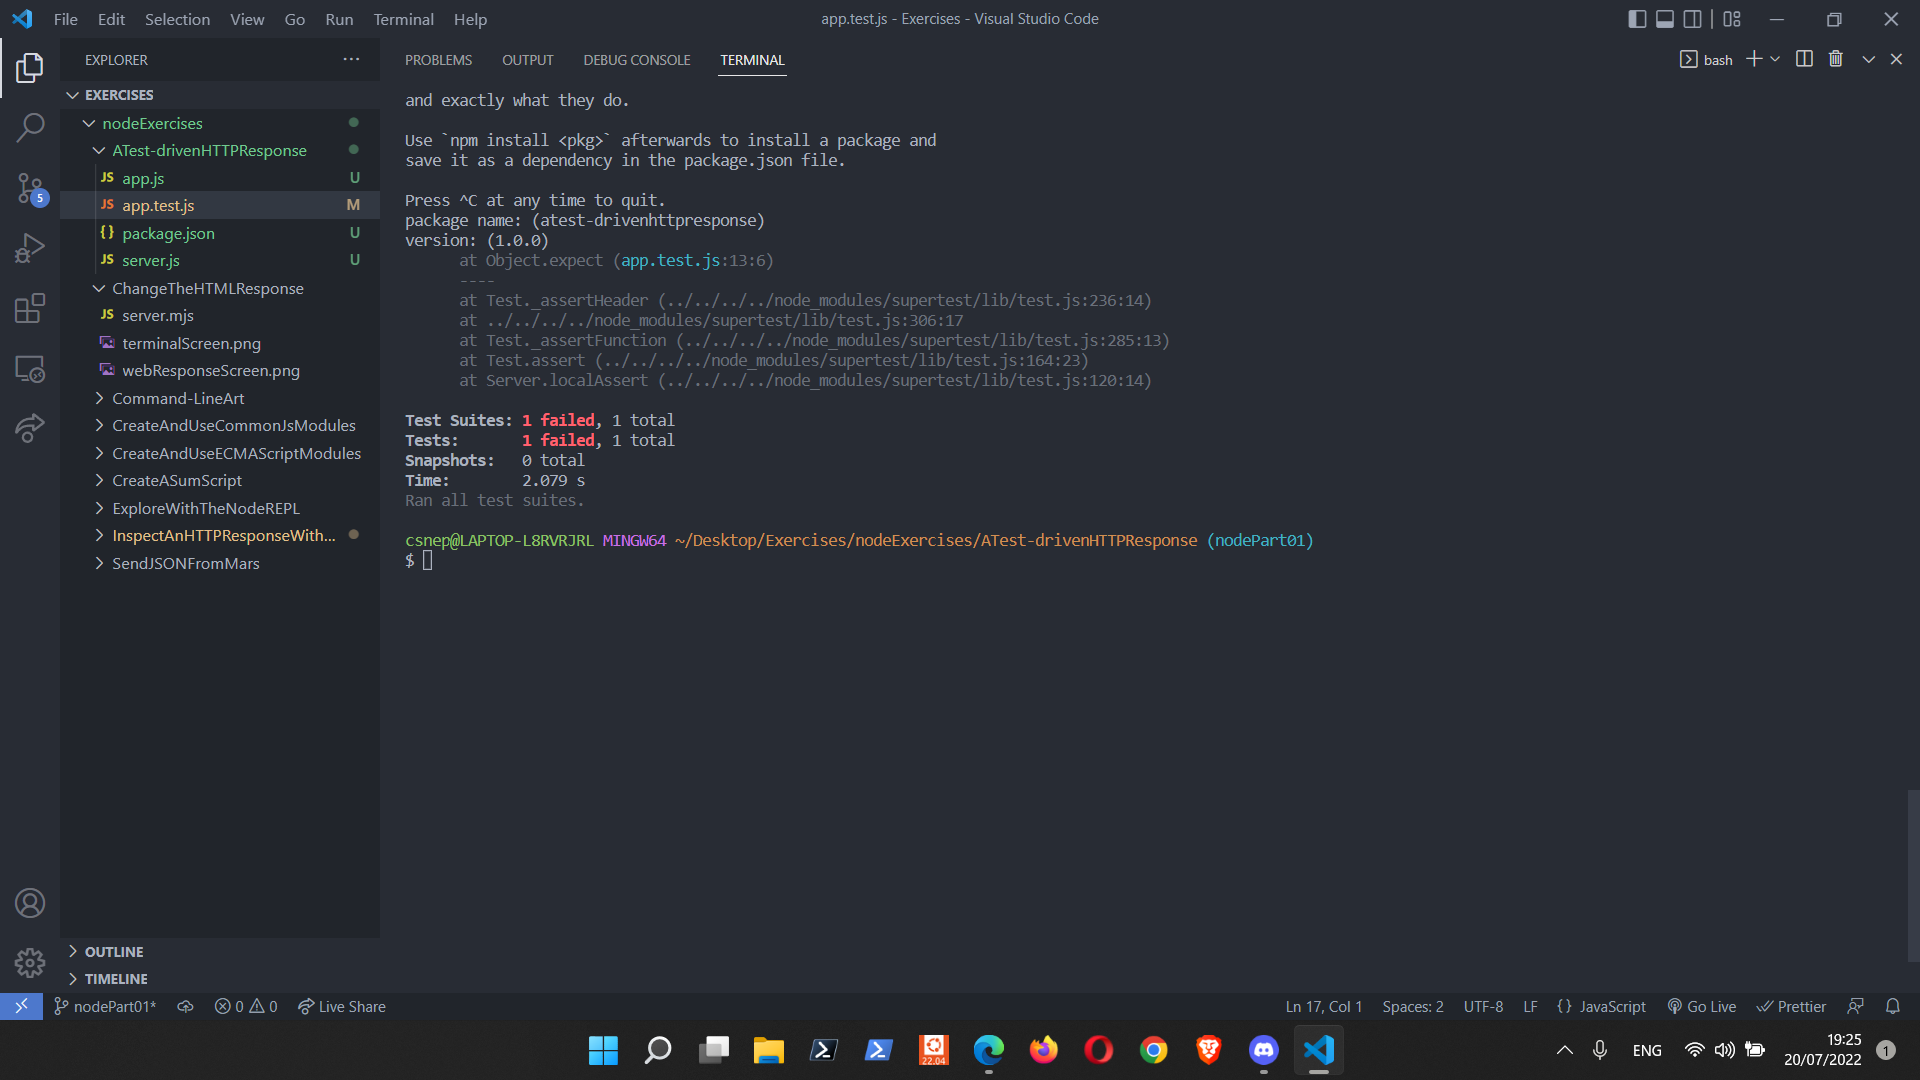
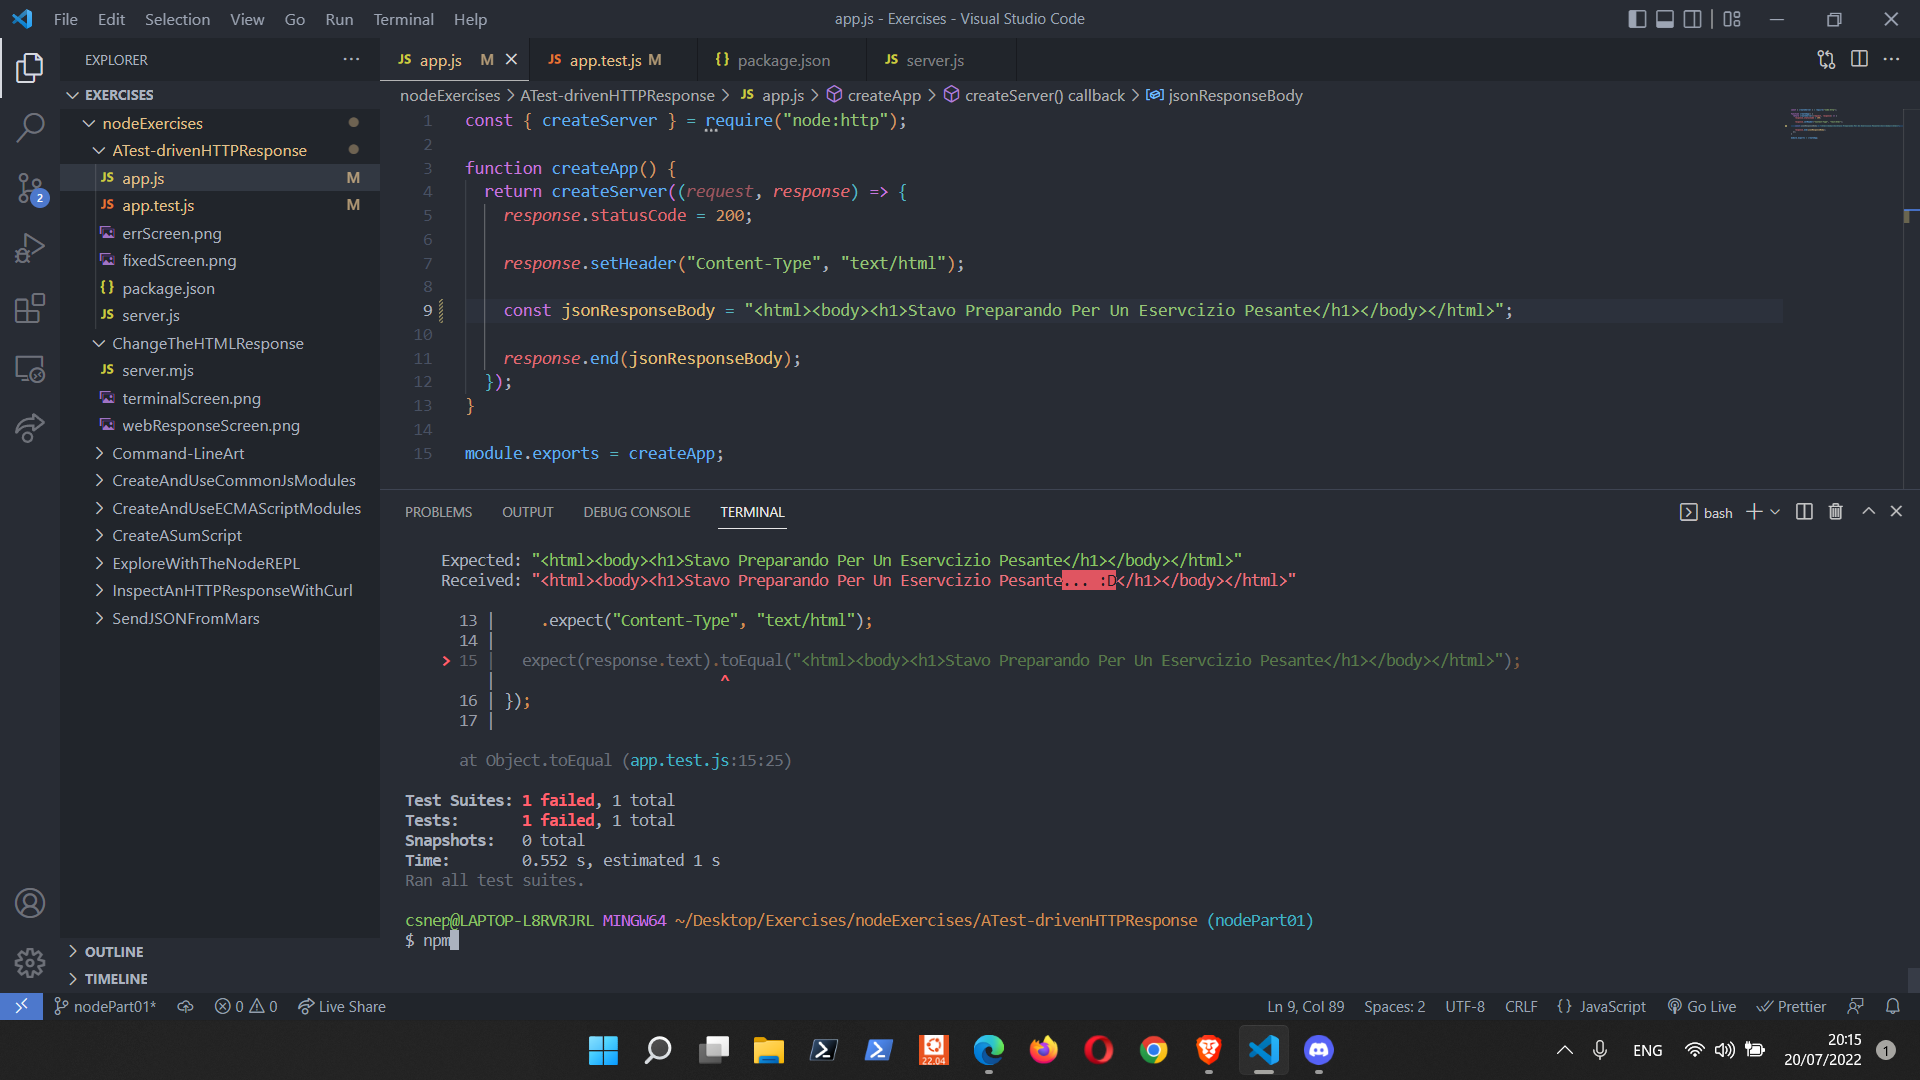
corrected A test-driven HTTP response

diff --git a/ATest-drivenHTTPResponse/app.js b/ATest-drivenHTTPResponse/app.js
@@ -6,7 +6,7 @@ function createApp() {
 
     response.setHeader("Content-Type", "text/html");
 
-    const jsonResponseBody = "<html><body><h1>Stavo Preparando Per Un Eservcizio Pesante... :D</h1></body></html>";
+    const jsonResponseBody = "<html><body><h1>Stavo Preparando Per Un Eservcizio Pesante</h1></body></html>";
 
     response.end(jsonResponseBody);
   });

diff --git a/ATest-drivenHTTPResponse/app.test.js b/ATest-drivenHTTPResponse/app.test.js
@@ -12,8 +12,5 @@ test("GET /", async () => {
     .expect(200)
     .expect("Content-Type", "text/html");
 
-  expect(
-    (response.body =
-      "<html><body><h1>Stavo Preparando Per Un Eservcizio Pesante</h1></body></html>")
-  );
+  expect(response.text).toEqual("<html><body><h1>Stavo Preparando Per Un Eservcizio Pesante</h1></body></html>");
 });
